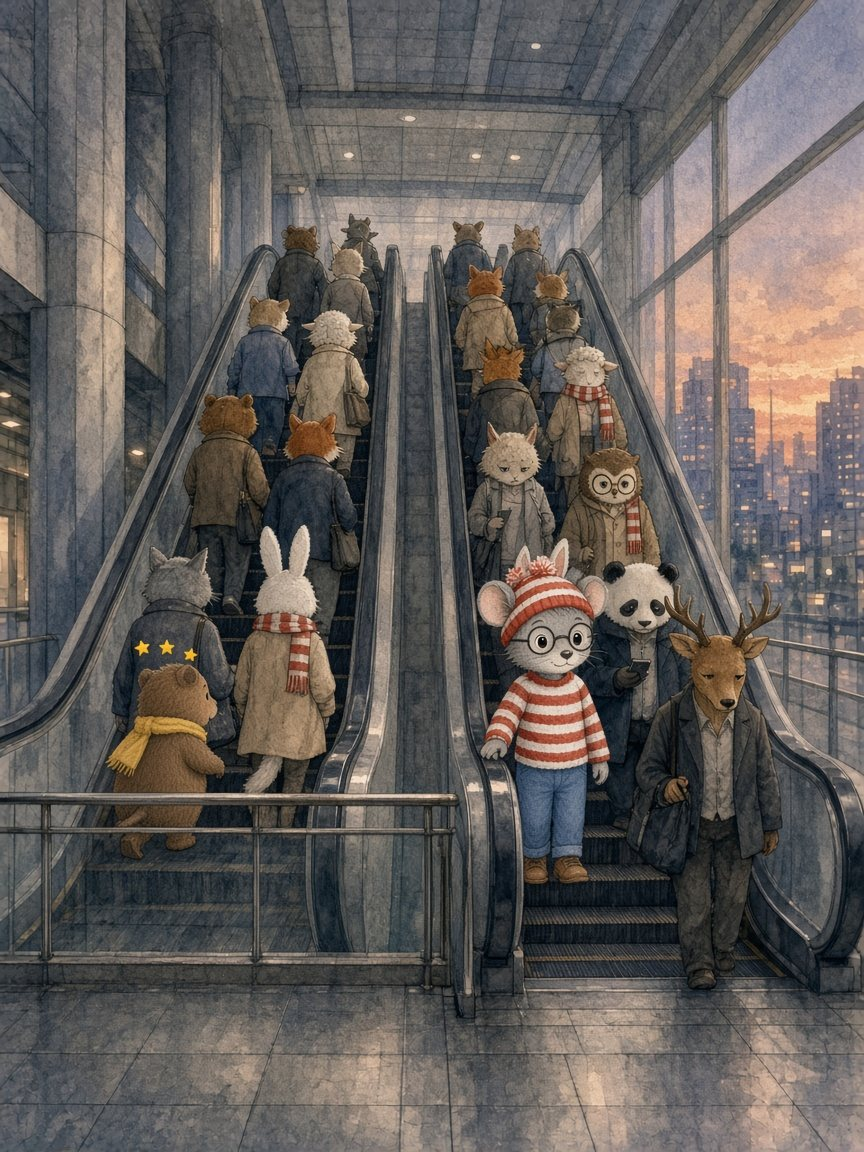
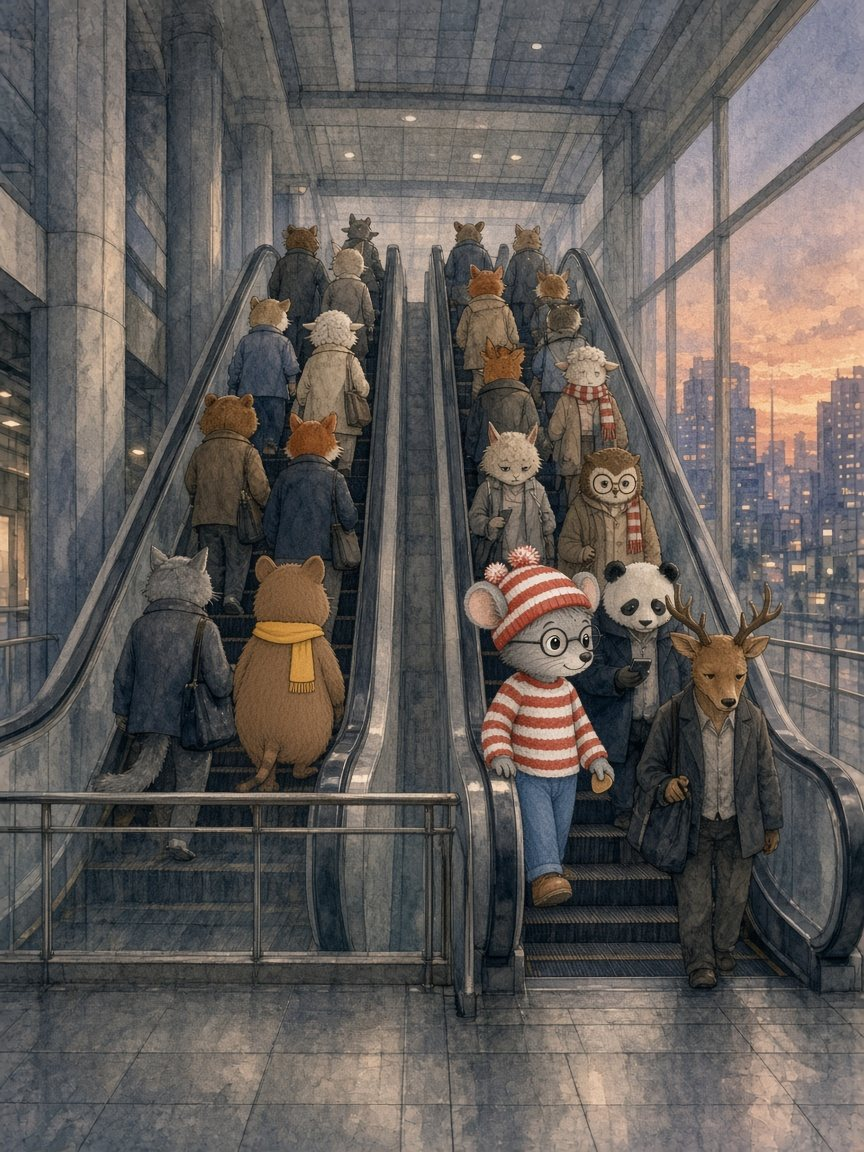
dayof: 當天 web app mockup (1116-0232)

diff --git a/dayof/js/where/engine.js b/dayof/js/where/engine.js
@@ -179,7 +179,7 @@ window.DAYOF = window.DAYOF || {};
       S.kaiInfo = { g: g, view: S.curName, flip: !!o.flip, outfit: o.outfit || D.Chars.kaiOutfit(), x: o.x || 0, y: o.y || 0, s: s, x0: (o.x || 0) - 30 * s, x1: (o.x || 0) + 30 * s, y0: (o.y || 0) - 98 * s, y1: (o.y || 0) + 3 * s };
       return g;
     };
-    // 姊姊 (small wombat sticker) — optional extra find. opts: {x,y,s=1,flip,parent}
+    // 姊姊 (small quokka sticker) — optional extra find. opts: {x,y,s=1,flip,parent}
     S.sister = function (o) {
       o = o || {};
       if (S.sisterInfo && S.sisterInfo.g.parentNode) S.sisterInfo.g.parentNode.removeChild(S.sisterInfo.g);
@@ -263,8 +263,8 @@ window.DAYOF = window.DAYOF || {};
       });
     });
   }
-  /* data/scenes/hitboxes.json — painted Kai / wombat boxes per scene (tolerant of shape; re-fetched per page load).
-     keys: scene id (park) or image stem (s05-park, s19-moumoon-selfie[.jpg]); values {kai:box, wombat|sister:box, view?}
+  /* data/scenes/hitboxes.json — painted Kai / quokka boxes per scene (tolerant of shape; re-fetched per page load).
+     keys: scene id (park) or image stem (s05-park, s19-moumoon-selfie[.jpg]); values {kai:box, quokka|sister:box, view?}
      box: [x,y,w,h] | {x,y,w,h} (top-left) | {cx,cy,w,h} (centre) | {x0,y0,x1,y1} | {left,top,width,height}; >1.5 → pixels */
   function hitboxes() {
     if (IMG.off || typeof fetch !== 'function') return Promise.resolve(null);
@@ -303,7 +303,7 @@ window.DAYOF = window.DAYOF || {};
     cand.forEach(function (c0) {
       var e = c0.e; if (!e || typeof e !== 'object') return;
       var ev = c0.view || (e.view && views[e.view] ? e.view : null);
-      [['kai', ['kai', 'Kai', 'mouse']], ['sister', ['wombat', 'sister', 'Wombat']]].forEach(function (pair) {
+      [['kai', ['kai', 'Kai', 'mouse']], ['sister', ['quokka', 'Quokka', 'sister', '姊姊', 'wombat', 'Wombat']]].forEach(function (pair) {
         if (out[pair[0]]) return;
         for (var i = 0; i < pair[1].length; i++) {
           var raw = e[pair[1][i]]; if (!raw) continue;
@@ -552,7 +552,7 @@ window.DAYOF = window.DAYOF || {};
       if (typeof opts.onSister === 'function') { try { opts.onSister({ sec: Math.round(sec), hints: hints }); } catch (e) { console.error(e); } }
     }
 
-    // secret find: a little surprise AT the spot (twinkling stars; wombat also gets a soft heart). No text, no count.
+    // secret find: a little surprise AT the spot (twinkling stars; quokka also gets a soft heart). No text, no count.
     function foundBonus(B) {
       if (!B || B.found) return;
       B.found = true;
@@ -659,7 +659,7 @@ window.DAYOF = window.DAYOF || {};
     function buildHud() {
       var right = H('div', 'where-hud-r', hud);
       if (Object.keys(S.views).length > 1) {
-        flipBtn = H('button', 'where-btn where-flip', right, '<span class="ico">' + icon('flipcam', ICON_FLIP) + '</span><span class="lbl">更換前後鏡頭</span>');
+        flipBtn = H('button', 'where-btn where-flip', right, '<span class="ico">' + icon('flipcam', ICON_FLIP) + '</span>'); flipBtn.setAttribute('aria-label', '更換前後鏡頭'); flipBtn.title = '更換前後鏡頭';
         flipBtn.type = 'button'; flipBtn.addEventListener('click', function (e) { e.stopPropagation(); flipView(); });
         flipBtn.addEventListener('pointerdown', function (e) { e.stopPropagation(); });
       }
@@ -913,7 +913,7 @@ window.DAYOF = window.DAYOF || {};
       });
       function vw_(name) { return name && IM.views[name] ? name : 'main'; }
       if (interactive) {
-        // NO sprites on the scene (Kai and the wombat are painted into the art). Kai box: hitboxes.json →
+        // NO sprites on the scene (Kai and the quokka are painted into the art). Kai box: hitboxes.json →
         // scene json kai.rect → derived from kai x/y/h (sprite-sized box). Hit = box + 30% padding.
         var ck = c.kai || {}, HB = IM.hits || {}, KAR = 158 / 320, WAR = 216 / 320;
         function fromXYH(o, ar) { var h = o.h != null ? o.h : (o.scale || 0.08), vis = clamp(o.visible != null ? +o.visible : 1, 0.15, 1), w = h * ar * S.H / S.W; return { x: (o.x != null ? o.x : 0.62) - w / 2, y: (o.y != null ? o.y : 0.71) - h, w: w, h: h * vis }; }
@@ -926,16 +926,16 @@ window.DAYOF = window.DAYOF || {};
         S.kaiInfo = padBox(kbox, kv, 0.3);
         // Kai not in the opening view (bookstore selfie) → flipping to his view finds him
         S.kaiInfo.foundOnView = ck.foundOnView != null ? !!ck.foundOnView : kv !== vw_(c.initView);
-        // secrets (no UI): sister/wombat + painted scene items; recorded silently via onBonus
+        // secrets (no UI): sister/quokka + painted scene items; recorded silently via onBonus
         S.bonus = [];
-        var sb = (c.bonus || []).filter(function (b) { return b && (b.id === 'sister' || b.id === 'wombat'); })[0];
+        var sb = (c.bonus || []).filter(function (b) { return b && (b.id === 'sister' || b.id === 'quokka'); })[0];
         if (HB.sister || sb) {
           var sv = HB.sister ? vw_(HB.sister.view || (sb && sb.view)) : vw_(sb.view);
           var sbox = HB.sister ? HB.sister.box : (sb.w != null && !sb.sprite ? normBox(sb, S.W, S.H) : fromXYH(sb, WAR));
           var SB = padBox(sbox, sv, 0.3); SB.id = 'sister'; SB.label = (sb && sb.label) || '姊姊'; S.bonus.push(SB);
         }
         (c.bonus || []).forEach(function (b, i) {
-          if (!b || b.sprite || b.w == null || b.id === 'sister' || b.id === 'wombat') return; // sprite bonuses (pick) are gone
+          if (!b || b.sprite || b.w == null || b.id === 'sister' || b.id === 'quokka') return; // sprite bonuses (pick) are gone
           var B = padBox({ x: b.x, y: b.y, w: b.w, h: b.h }, vw_(b.view), 0.15); B.id = b.id || ('b' + i); B.label = b.label || B.id; S.bonus.push(B);
         });
         S.bonus.forEach(function (B) { B.found = !!(opts.bonusFound && opts.bonusFound[B.id]); });

diff --git a/dayof/index.html b/dayof/index.html
@@ -9,13 +9,13 @@
 <meta name="format-detection" content="telephone=no">
 <title>看看 · 11/22</title>
 <link rel="icon" href="data:,">
-<script src="config.js?v=261116b"></script>
-<link rel="stylesheet" href="css/base.css?v=261116b">
-<link rel="stylesheet" href="css/where.css?v=261116b">
-<link rel="stylesheet" href="css/camera.css?v=261116b">
-<link rel="stylesheet" href="css/suitcase.css?v=261116b">
-<link rel="stylesheet" href="css/quiz.css?v=261116b">
-<link rel="stylesheet" href="css/finale.css?v=261116b">
+<script src="config.js?v=261116d"></script>
+<link rel="stylesheet" href="css/base.css?v=261116d">
+<link rel="stylesheet" href="css/where.css?v=261116d">
+<link rel="stylesheet" href="css/camera.css?v=261116d">
+<link rel="stylesheet" href="css/suitcase.css?v=261116d">
+<link rel="stylesheet" href="css/quiz.css?v=261116d">
+<link rel="stylesheet" href="css/finale.css?v=261116d">
 </head>
 <body>
 <div id="app"></div>
@@ -25,37 +25,37 @@
   </div>
 </noscript>
 
-<script src="js/core/icons.js?v=261116b"></script>
-<script src="js/core/flow.js?v=261116b"></script>
-<script src="js/core/api.js?v=261116b"></script>
-<script src="js/core/filterstack.js?v=261116b"></script>
+<script src="js/core/icons.js?v=261116d"></script>
+<script src="js/core/flow.js?v=261116d"></script>
+<script src="js/core/api.js?v=261116d"></script>
+<script src="js/core/filterstack.js?v=261116d"></script>
 
-<script src="js/camera/camera.js?v=261116b"></script>
-<script src="js/camera/rain.js?v=261116b"></script>
-<script src="js/camera/fisheye.js?v=261116b"></script>
+<script src="js/camera/camera.js?v=261116d"></script>
+<script src="js/camera/rain.js?v=261116d"></script>
+<script src="js/camera/fisheye.js?v=261116d"></script>
 
-<script src="js/where/chars.js?v=261116b"></script>
-<script src="js/where/engine.js?v=261116b"></script>
-<script src="js/where/scenes/park.js?v=261116b"></script>
-<script src="js/where/scenes/escalator.js?v=261116b"></script>
-<script src="js/where/scenes/bridge.js?v=261116b"></script>
-<script src="js/where/scenes/bookstore.js?v=261116b"></script>
-<script src="js/where/scenes/office.js?v=261116b"></script>
-<script src="js/where/scenes/fireworks.js?v=261116b"></script>
-<script src="js/where/scenes/newyork.js?v=261116b"></script>
+<script src="js/where/chars.js?v=261116d"></script>
+<script src="js/where/engine.js?v=261116d"></script>
+<script src="js/where/scenes/park.js?v=261116d"></script>
+<script src="js/where/scenes/escalator.js?v=261116d"></script>
+<script src="js/where/scenes/bridge.js?v=261116d"></script>
+<script src="js/where/scenes/bookstore.js?v=261116d"></script>
+<script src="js/where/scenes/office.js?v=261116d"></script>
+<script src="js/where/scenes/fireworks.js?v=261116d"></script>
+<script src="js/where/scenes/newyork.js?v=261116d"></script>
 
-<script src="js/pages/landing.js?v=261116b"></script>
-<script src="js/pages/form.js?v=261116b"></script>
-<script src="js/pages/rules.js?v=261116b"></script>
-<script src="js/pages/lyrics.js?v=261116b"></script>
-<script src="js/pages/where.js?v=261116b"></script>
-<script src="js/pages/qa.js?v=261116b"></script>
-<script src="js/pages/suitcase.js?v=261116b"></script>
-<script src="js/pages/yesno.js?v=261116b"></script>
-<script src="js/pages/photo.js?v=261116b"></script>
-<script src="js/pages/credits.js?v=261116b"></script>
-<script src="js/pages/egg.js?v=261116b"></script>
+<script src="js/pages/landing.js?v=261116d"></script>
+<script src="js/pages/form.js?v=261116d"></script>
+<script src="js/pages/rules.js?v=261116d"></script>
+<script src="js/pages/lyrics.js?v=261116d"></script>
+<script src="js/pages/where.js?v=261116d"></script>
+<script src="js/pages/qa.js?v=261116d"></script>
+<script src="js/pages/suitcase.js?v=261116d"></script>
+<script src="js/pages/yesno.js?v=261116d"></script>
+<script src="js/pages/photo.js?v=261116d"></script>
+<script src="js/pages/credits.js?v=261116d"></script>
+<script src="js/pages/egg.js?v=261116d"></script>
 
-<script src="js/core/app.js?v=261116b"></script>
+<script src="js/core/app.js?v=261116d"></script>
 </body>
 </html>

diff --git a/dayof/test/filters.js b/dayof/test/filters.js
@@ -1,0 +1,35 @@
+// Filter screenshots: node test/filters.js [fake-cam.mjpeg] → ../screens/filters/*.png (390×844)
+const { chromium } = require('playwright'); const { spawn } = require('child_process'); const path = require('path'); const fs = require('fs');
+const CAM = process.argv[2]; const OUT = path.join(__dirname, '..', '..', 'screens', 'filters'); fs.mkdirSync(OUT, { recursive: true });
+const PORT = 8100 + Math.floor(Math.random() * 800); const sleep = ms => new Promise(r => setTimeout(r, ms));
+(async () => {
+  const srv = spawn('python3', ['-m', 'http.server', String(PORT), '--bind', '127.0.0.1'], { cwd: path.join(__dirname, '..'), stdio: 'ignore' });
+  await sleep(900);
+  const args = ['--use-fake-device-for-media-stream', '--use-fake-ui-for-media-stream', '--autoplay-policy=no-user-gesture-required'];
+  if (CAM) args.push('--use-file-for-fake-video-capture=' + CAM);
+  const b = await chromium.launch({ args }); const ctx = await b.newContext({ viewport: { width: 390, height: 844 }, permissions: ['camera', 'microphone'] });
+  const errs = [];
+  const FILTERS = [['helmet', '流星太空人'], ['rain', '下雨'], ['sun', '太陽'], ['fish', '魚眼'], ['home', '家']];
+  for (const [id, name] of FILTERS) {
+    const p = await ctx.newPage(); p.on('pageerror', e => errs.push(id + ': ' + e.message));
+    await p.goto(`http://127.0.0.1:${PORT}/?step=32&test=1`, { waitUntil: 'load' }); await sleep(800);
+    await p.evaluate(f => { window.__cam = DAYOF.Camera.open({ filter: f, mode: 'video', stepNo: 32 }); }, id);
+    await sleep(2500); await p.screenshot({ path: path.join(OUT, `${id}-1.png`) });
+    if (id === 'rain' || id === 'sun') { // finger wipe interaction
+      await p.mouse.move(110, 300); await p.mouse.down(); for (let i = 0; i <= 12; i++) await p.mouse.move(110 + i * 14, 300 + Math.sin(i / 2) * 40); await p.mouse.up();
+    }
+    if (id === 'helmet') { await p.mouse.move(320, 140); await p.mouse.down(); await p.mouse.move(120, 260, { steps: 8 }); await p.mouse.up(); }
+    await sleep(3500); await p.screenshot({ path: path.join(OUT, `${id}-2.png`) });
+    await sleep(3500); await p.screenshot({ path: path.join(OUT, `${id}-3.png`) });
+    console.log(id, name, 'ok'); await p.close();
+  }
+  // 29 photo: fisheye photo camera
+  const p = await ctx.newPage(); p.on('pageerror', e => errs.push('photo: ' + e.message));
+  await p.goto(`http://127.0.0.1:${PORT}/?step=29&test=1`, { waitUntil: 'load' }); await sleep(800);
+  await p.screenshot({ path: path.join(OUT, 'photo29-0-page.png') });
+  const btn = await p.$('button:has-text("拍照")'); if (btn) await btn.click(); await sleep(2500);
+  await p.screenshot({ path: path.join(OUT, 'photo29-1-camera.png') });
+  const shutter = await p.$('.cam-overlay [aria-label="拍照"]'); if (shutter) { await shutter.click(); await sleep(1500); await p.screenshot({ path: path.join(OUT, 'photo29-2-preview.png') }); }
+  console.log('photo29', shutter ? 'ok' : 'no shutter');
+  await b.close(); srv.kill(); console.log(errs.length ? 'ERRORS\n' + errs.join('\n') : 'no page errors');
+})();

diff --git a/dayof/test/hitbox.js b/dayof/test/hitbox.js
@@ -1,0 +1,21 @@
+// Tap the center of each painted Kai / quokka box (from data/scenes/hitboxes.json) in the cover view → expect found / sparkle.
+const { chromium } = require('playwright'); const { spawn } = require('child_process'); const path = require('path'); const fs = require('fs');
+const HB = JSON.parse(fs.readFileSync(path.join(__dirname, '..', 'data', 'scenes', 'hitboxes.json'), 'utf8'));
+const SC = { 5: 's05-park.jpg', 7: 's07-escalator.jpg', 17: 's17-bridge.jpg', 23: 's23-office.jpg', 25: 's25-fireworks.jpg', 27: 's27-nyc.jpg' };
+const PORT = 8200 + Math.floor(Math.random() * 700); const sleep = ms => new Promise(r => setTimeout(r, ms));
+(async () => {
+  const srv = spawn('python3', ['-m', 'http.server', String(PORT), '--bind', '127.0.0.1'], { cwd: path.join(__dirname, '..'), stdio: 'ignore' }); await sleep(900);
+  const b = await chromium.launch(); let bad = 0;
+  for (const [n, f] of Object.entries(SC)) {
+    const p = await b.newPage({ viewport: { width: 390, height: 844 } }); const errs = []; p.on('pageerror', e => errs.push(e.message));
+    await p.goto(`http://127.0.0.1:${PORT}/?step=${n}&test=1`); await p.waitForSelector('.where-intro-btn'); await p.click('.where-intro-btn'); await sleep(900);
+    const r = await p.evaluate(src => { const im = [...document.querySelectorAll('image')].find(i => (i.getAttribute('href') || '').includes(src)); if (!im) return null; const b = im.getBoundingClientRect(); return [b.x, b.y, b.width, b.height]; }, f);
+    const tap = async box => { const x = r[0] + r[2] * (box[0] + box[2]) / 2, y = r[1] + r[3] * (box[1] + box[3]) / 2; await p.mouse.click(x, y); return [x | 0, y | 0]; };
+    let q = '-'; if (HB[f].quokka) { const at = await tap(HB[f].quokka); await sleep(500); q = JSON.stringify(at) + ' found=' + await p.evaluate(n => JSON.stringify((DAYOF.debug.state().found || {})[n] || {}), n); }
+    const at = await tap(HB[f].kai); await sleep(2500);
+    const ok = await p.evaluate(() => /找到凱凱/.test(document.body.innerText));
+    await p.screenshot({ path: path.join(__dirname, '..', '..', 'screens', String(n).padStart(2, '0') + '-found.png') });
+    console.log(n, f, 'kaiTap', JSON.stringify(at), ok ? 'FOUND' : 'NOT FOUND', '| quokka', q, errs.join('|')); if (!ok) bad++; await p.close();
+  }
+  await b.close(); srv.kill(); process.exit(bad ? 1 : 0);
+})();

diff --git a/dayof/css/where.css b/dayof/css/where.css
@@ -23,7 +23,7 @@
 .where-btn .ico{display:inline-flex;width:24px;height:24px}
 .where-btn .ico svg{width:100%;height:100%}
 .where-btn .lbl{font-size:13px;letter-spacing:.04em;white-space:nowrap}
-.where-flip{height:46px;padding:0 16px 0 12px}
+.where-flip{width:46px;height:46px;padding:0;border-radius:50%;display:inline-flex;align-items:center;justify-content:center}.where-flip .lbl{display:none}
 .where-zoom{width:42px;height:42px;font-size:24px;line-height:1;padding:0;font-weight:300}
 .where-hint{position:absolute;left:max(10px,env(safe-area-inset-left));bottom:max(110px,env(safe-area-inset-bottom));height:46px;padding:0 16px 0 12px;opacity:0;transform:translateY(12px) scale(.9);pointer-events:none;transition:opacity .5s,transform .5s}
 .where-hint.show{opacity:1;transform:none;pointer-events:auto;animation:wherePulse 2.6s ease-in-out 1s infinite}
